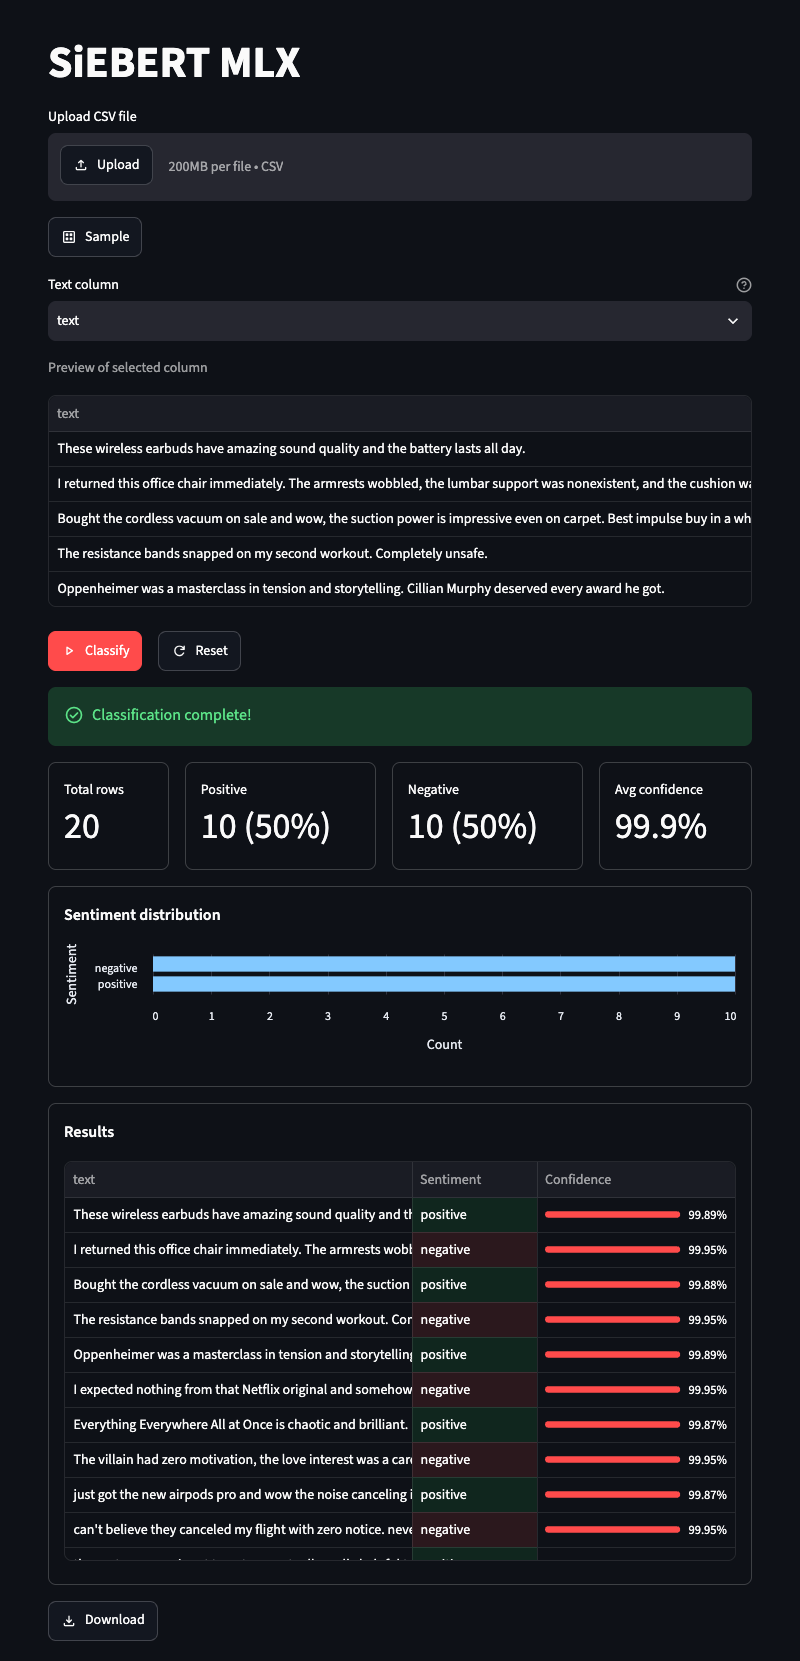
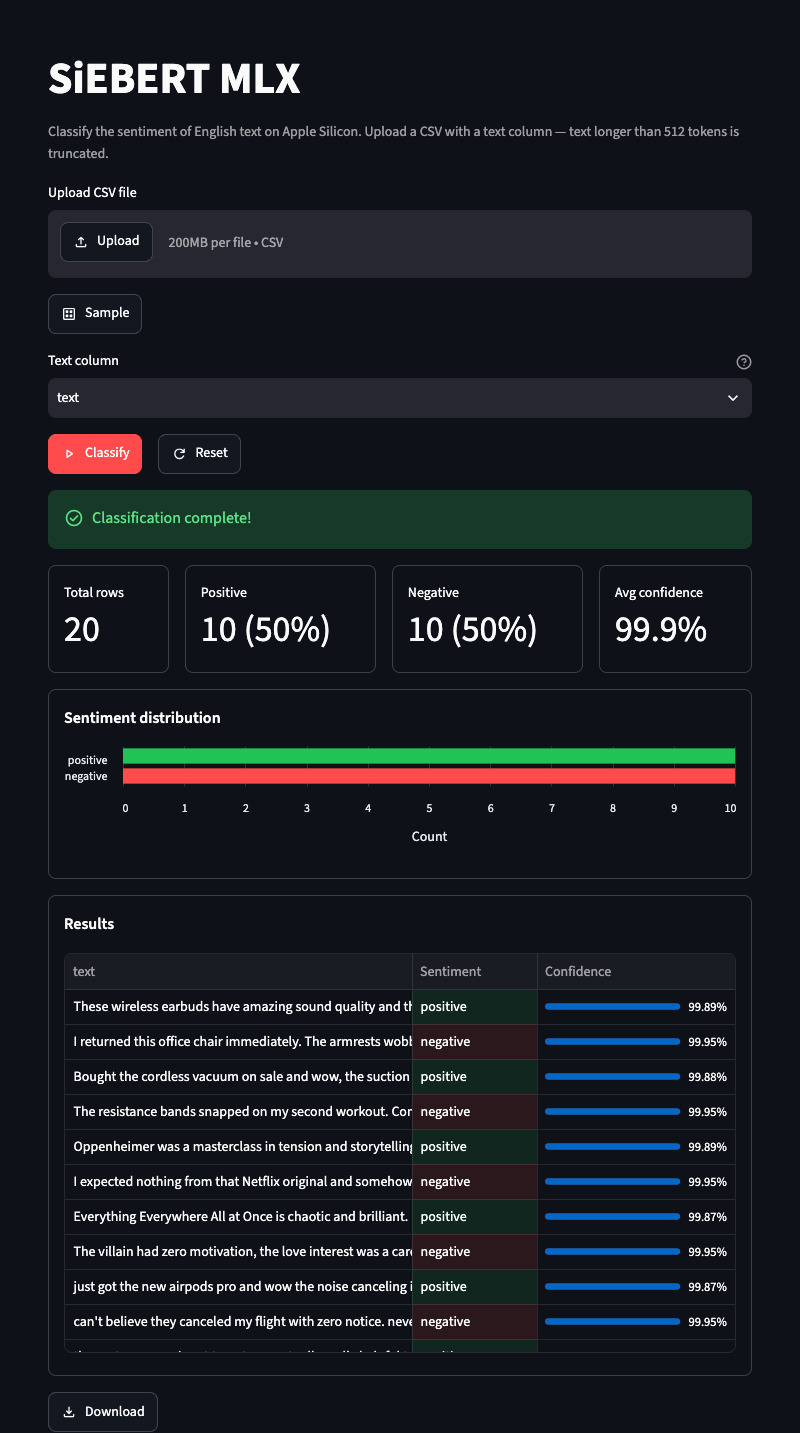
docs: recapture the README screenshot
Stale since 2026-08-17: it predated the landing caption, the conditional
Skipped card, placeholder="", sort=False, the chart-color pass and the
preview slot. 800x1661 -> 800x1433, the height moving mostly because the
preview no longer stacks above the results.

Captured headed this time, which added a trap worth recording: macOS Chrome
paints a real scrollbar for stMain's residual overflow (scrollHeight stays
~160px past the trimmed viewport because of the shell's bottom spacer), and
it both lands in the frame and shifts the centered column left by its own
width. Suppressed on the page scroller only -- the results grid keeps its
own, which is a real affordance. A headed window also cannot exceed the
physical screen, so set_viewport_size can silently clip the same way
full_page=True does; the script reads innerHeight back and falls back to CDP
Emulation.setDeviceMetricsOverride, unused at this height but checked.

Changed region(s): [[0.0625, 0.0307, 0.9375, 0.6448], [0.0938, 0.6448, 0.9062, 0.9518], [0.0625, 0.9518, 0.1875, 1.0]]

diff --git a/CLAUDE.md b/CLAUDE.md
@@ -132,13 +132,14 @@ Single-file application (`streamlit_app.py`, ~800 lines):
 
 The README shows **one** screenshot, `docs/screenshot-dark.png`. There was a light/dark pair in a two-column table until 2026-08-15; the light shot was deleted rather than recaptured, so do not re-add a `docs/screenshot-light.png` reference on the assumption the file went missing by accident.
 
-**The checked-in shot is stale as of 2026-08-17** and has not been recaptured: it predates the landing `st.caption`, the conditional `Skipped` card, `placeholder=""` (its blank cells read `None`), `sort=False` (its bars are alphabetised negative-first), and — as of 2026-08-18 — the whole chart-color pass: its two bars are one palette blue under a rotated `Sentiment` axis title, its confidence bars are primary red rather than blue, and it still shows the preview table stacked above the results. Recapturing changes the page height, so re-measure `stMain.scrollHeight` per the traps below rather than reusing 800×1661.
+**Recaptured 2026-08-18 and current**, at **800×1433** — it had been stale since 2026-08-17, predating the landing `st.caption`, the conditional `Skipped` card, `placeholder=""`, `sort=False`, the chart-color pass and the preview slot. The height moved 1661 → 1433 mostly because the preview no longer stacks above the results, so **always re-measure `stMain.scrollHeight` per the traps below rather than reusing a recorded number** — including the 1433 in this sentence.
 
-It is captured by driving the running app with Playwright against the **system** Chrome (`chromium.launch(channel="chrome")`, so no browser download) — `uv run --with playwright python <script>`; there is no checked-in capture script. Three traps, all found the hard way:
+It is captured by driving the running app with Playwright against the **system** Chrome (`chromium.launch(channel="chrome")`, so no browser download) — `uv run --with playwright python <script>`; there is no checked-in capture script. Load `samples/mixed_sample.csv` via **Sample** and click **Classify** before capturing — the README's alt text says "classifying sample data". Four traps, all found the hard way:
 
 - **Dark mode comes from `color_scheme="dark"` on the browser context**, not a flag. With no `.streamlit/config.toml` the app follows `prefers-color-scheme`, so this exercises the real default-theme path; `streamlit run --theme.base=dark` would instead re-introduce a custom theme and screenshot something the app does not ship
 - **`full_page=True` silently returns a viewport-height image.** Streamlit scrolls an inner `overflow: auto` element, so the document never grows. The scroller is `<section data-testid="stMain">` — **not** `stAppViewContainer` (its `scrollHeight` equals the viewport) and **not** `document.body` (`scrollHeight` is literally `0`). Measure `stMain.scrollHeight`, resize the viewport to it, then capture. That number still overshoots by the shell's bottom spacer (~400px of dead air below `Download`), so trim to `stMainBlockContainer.lastElementChild`'s `getBoundingClientRect().bottom`
-- **Viewport width above ~800 buys nothing** — the default centered layout caps content at 736px, so extra width only adds side margin. The current shot is 800×1661. The retired pair was 596 wide, which worked only under the custom theme's `baseFontSize = 14`; at the default 16px that width wraps the metric row 3+1 and pushes `Sentiment`/`Confidence` off-canvas, so do not go back to it. Hide the app chrome first (`header`, `stToolbar`, `stDecoration`, `stStatusWidget`) and tighten `stMainBlockContainer` padding, or the toolbar lands in the frame
+- **Headed capture draws a real scrollbar into the frame.** `headless=False` is worth using (it renders on the actual display rather than offscreen), but macOS Chrome then paints a scrollbar for `stMain`'s residual overflow — `scrollHeight` stays ~160px past the trimmed viewport because of the shell's bottom spacer — and it both lands in the shot and shifts the centered column left by its own width. Kill it on the page scroller only (`section[data-testid="stMain"]`, `scrollbar-width: none` plus a zero-width `::-webkit-scrollbar`); the results grid keeps its own, which is a real affordance. Headless does not show this, so a headless-captured shot and a headed one are not interchangeable. Two further headed-only notes: a headed window **cannot exceed the physical screen**, so `set_viewport_size` can come back short and clip the capture exactly the way `full_page=True` does — read `window.innerHeight` back and fall back to CDP `Emulation.setDeviceMetricsOverride`, which is not window-bounded (not needed at 1433px on this machine, but check rather than assume); and the context viewport also emulates `window.screen`, which reports the viewport rather than the display
+- **Viewport width above ~800 buys nothing** — the default centered layout caps content at 736px, so extra width only adds side margin. The current shot is 800×1433. The retired pair was 596 wide, which worked only under the custom theme's `baseFontSize = 14`; at the default 16px that width wraps the metric row 3+1 and pushes `Sentiment`/`Confidence` off-canvas, so do not go back to it. Hide the app chrome first (`header`, `stToolbar`, `stDecoration`, `stStatusWidget`) and tighten `stMainBlockContainer` padding, or the toolbar lands in the frame
 
 **A regression this surfaced, since fixed:** at the default 16px font the results grid wanted 728px but got 670px, so the `Confidence` percentage was cut off and needed horizontal scrolling — the app's real behavior at *every* window width (the 736px content cap makes it width-independent), not a capture artifact. It appeared the moment the custom theme's 14px font went away. The fix is `TEXT_COL_WIDTH` on free-text columns (see the results-`dataframe` bullet in Key Patterns), measured 728 → 670 against a 670px `clientWidth`. Verify any change to it against **both** `mixed_sample.csv` and `blank_cells.csv`: the first attempt used 400px, which passed on the single-column sample and still overflowed by 8px on the two-column one. `layout="wide"` was rejected — it would restyle every element on the page to undo a 58px overflow.
 
